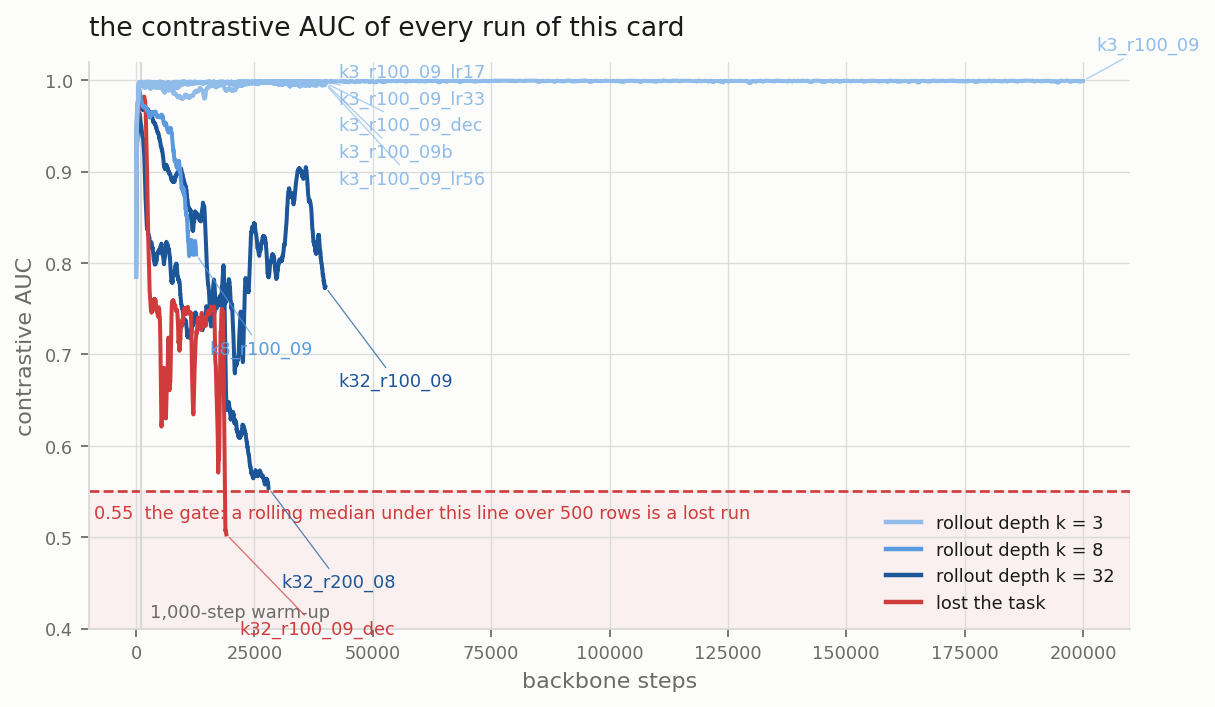
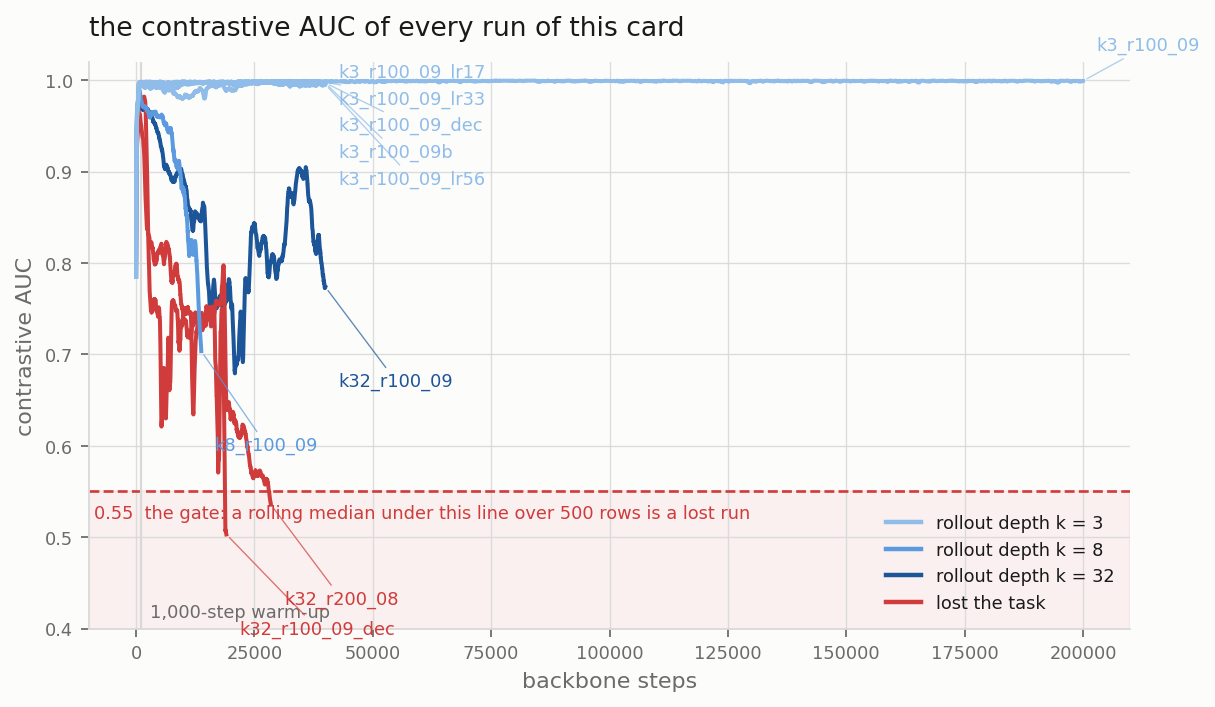
fix(#412): the two lost arms differ in two columns, so their gap measures nothing
I wrote that the decay loses the task "9,518 steps sooner", subtracting 18,634
from 28,152. Those arms differ in the momentum AND the decay, so that gap is a
diagonal of the 2x2 and not a measurement.

The clean readings are the row and the column. At 0.9 to 1.0 the no-decay arm
held at 0.773 and its decay twin lost at 18,634. Among the no-decay arms, 0.9
held and 0.8 lost at 28,152.

The report also states outright that not every k = 32 arm loses the task. Two
of three did, and k32_r100_09 ran degraded and held with a floor of 0.683.

diff --git a/reports/2026-09-06_moirai_small_size/results/tables.md b/reports/2026-09-06_moirai_small_size/results/tables.md
@@ -16,7 +16,7 @@ The band is **0.0568** (this card measured it at 11.4M). Two numbers closer than
 |---|---|---|---|---|---|
 | k32_r100_09 | held | 0.6827 | 20872 | 0.7732 | 40000 |
 | k32_r100_09_dec | lost | 0.5014 | 19100 | 0.5014 | 19100 |
-| k32_r200_08 | held | 0.5554 | 28000 | 0.5554 | 28000 |
+| k32_r200_08 | lost | 0.5347 | 28500 | 0.5347 | 28500 |
 | k3_r100_09 | held | 0.9931 | 1942 | 0.9988 | 40000 |
 | k3_r100_09 | held | 0.9974 | 40001 | 0.9994 | 100000 |
 | k3_r100_09 | held | 0.9992 | 144399 | 0.9995 | 200000 |
@@ -25,7 +25,7 @@ The band is **0.0568** (this card measured it at 11.4M). Two numbers closer than
 | k3_r100_09_lr33 | held | 0.9913 | 3337 | 0.9980 | 40000 |
 | k3_r100_09_lr56 | held | 0.9936 | 34553 | 0.9956 | 40000 |
 | k3_r100_09b | held | 0.9922 | 1869 | 0.9982 | 40000 |
-| k8_r100_09 | held | 0.8063 | 12700 | 0.8063 | 12700 |
+| k8_r100_09 | held | 0.7035 | 13800 | 0.7035 | 13800 |
 
 ### The contrastive AUC, step by step
 
@@ -41,7 +41,7 @@ Lower is worse. A run at 0.5 has lost the task. The last column is what the same
 | k3_r100_09_dec | 3 | yes | 0.996 | 0.992 | 0.980 | 0.994 | 0.997 | 0.997 | held | — |
 | k8_r100_09 | 8 | no | 0.971 | 0.961 | 0.881 | — | — | — | held | — |
 | k32_r100_09 | 32 | no | 0.968 | 0.937 | 0.892 | 0.747 | 0.843 | 0.773 | held | 0.978 (#404) |
-| k32_r200_08 | 32 | no | 0.877 | 0.814 | 0.749 | 0.748 | 0.568 | — | held | 0.957 (#404) |
+| k32_r200_08 | 32 | no | 0.877 | 0.814 | 0.749 | 0.748 | 0.568 | — | lost at 28,152 | 0.957 (#404) |
 | k32_r100_09_dec | 32 | yes | 0.978 | 0.746 | 0.742 | 0.754 | — | — | lost at 18,634 | 0.983 (#409) |
 
 ### The loss by term
@@ -50,7 +50,7 @@ Lower is worse. A run at 0.5 has lost the task. The last column is what the same
 |---|---|---|---|---|---|---|---|---|
 | k32_r100_09 | 40,000 | 40,000 | 13.4947 | 11.6270 | 1.7583 | 1.00 | 0.9400 | 0.7629 |
 | k32_r100_09_dec | 40,000 | 19,100 | 1.8013 | — | 1.8219 | 0.00 | 0.9191 | 0.5010 |
-| k32_r200_08 | 40,000 | 27,900 | 13.6247 | 11.5939 | 1.9951 | 1.00 | 0.8279 | 0.5482 |
+| k32_r200_08 | 40,000 | 28,500 | 13.6105 | 11.5968 | 2.0018 | 1.00 | 0.8285 | 0.5254 |
 | k3_r100_09 | 100,000 | 100,000 | 12.3238 | 11.7174 | 0.1472 | 1.00 | 1.0000 | 0.9997 |
 | k3_r100_09 | 200,000 | 200,000 | 12.2424 | 11.7181 | 0.1319 | 1.00 | 1.0000 | 0.9938 |
 | k3_r100_09 | 40,000 | 40,000 | 12.5323 | 11.7822 | 0.1852 | 1.00 | 0.9400 | 0.9993 |
@@ -59,7 +59,7 @@ Lower is worse. A run at 0.5 has lost the task. The last column is what the same
 | k3_r100_09_lr33 | 40,000 | 40,000 | 12.5972 | 11.7772 | 0.2020 | 1.00 | 0.9400 | 0.9983 |
 | k3_r100_09_lr56 | 40,000 | 40,000 | 12.6520 | 11.6891 | 0.2118 | 1.00 | 0.9400 | 0.9973 |
 | k3_r100_09b | 40,000 | 40,000 | 12.9777 | 11.7567 | 0.2832 | 1.00 | 0.9400 | 0.9984 |
-| k8_r100_09 | 40,000 | 12,600 | 13.3953 | 11.6140 | 1.6690 | 1.00 | 0.9126 | 0.8030 |
+| k8_r100_09 | 40,000 | 13,700 | 13.5313 | 11.6109 | 1.8438 | 1.00 | 0.9137 | 0.6663 |
 
 ### The cost
 

diff --git a/reports/2026-09-06_moirai_small_size/moirai_small_size.md b/reports/2026-09-06_moirai_small_size/moirai_small_size.md
@@ -101,8 +101,16 @@ At k = 32 and 11.4M, two treatments each finish the job by themselves:
 
 THE DECAY IS NOT REQUIRED. `k32_r200_08` carries `L_rep` at weight 1.0 for
 every one of its 28,152 steps and loses the task anyway. A ramp that starts at
-0.8 does it with the full objective in place, and the decay does it 9,518 steps
-sooner at the higher momentum.
+0.8 does it with the full objective in place.
+
+Read the table by column and by row, never on the diagonal. The decay column is
+the pair at 0.9 to 1.0, where the no-decay arm HELD at 0.773 and its decay twin
+lost at 18,634. The momentum column is the no-decay pair, where 0.9 held and
+0.8 lost at 28,152. The two lost arms differ from each other in BOTH the
+momentum and the decay, so the gap between 18,634 and 28,152 measures nothing.
+
+NOT EVERY k = 32 ARM LOSES THE TASK. Two of the three did. `k32_r100_09` ran
+degraded and held, with a floor of 0.683 at step 20,872 that never crossed.
 
 The worst AUC is also the worst score: 0.773 and 1.4629, against 0.999 and
 1.2927 to 1.3495 on the k = 3 arms.
